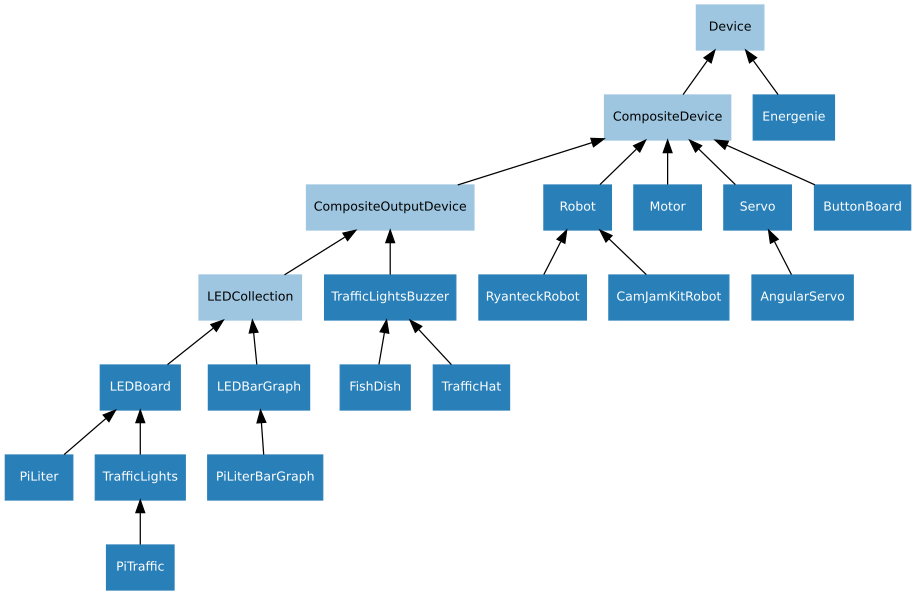
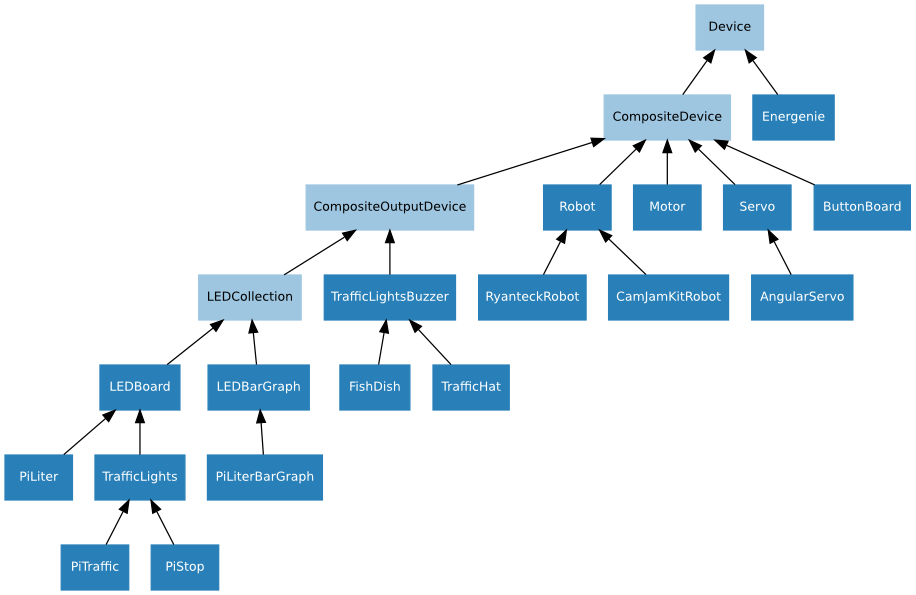
Add support for the Pi-Stop Traffic-light board

diff --git a/gpiozero/boards.py b/gpiozero/boards.py
@@ -753,6 +753,55 @@ class PiTraffic(TrafficLights):
                                         pwm=pwm, initial_value=initial_value)
 
 
+class PiStop(TrafficLights):
+    """
+    Extends :class:`TrafficLights` for the `PiHardware Pi-Stop`_: a vertical
+    traffic lights board.
+
+    The following example turns on the amber LED on a Pi-Stop
+    connected to location ``A+``::
+
+        from gpiozero import PiStop
+
+        traffic = PiStop('A+')
+        traffic.amber.on()
+
+    :param str location:
+        The `location`_ on the GPIO header to which the Pi-Stop is connected.
+        Must be one of: ``A``, ``A+``, ``B``, ``B+``, ``C``, ``D``.
+
+    :param bool pwm:
+        If ``True``, construct :class:`PWMLED` instances to represent each
+        LED. If ``False`` (the default), construct regular :class:`LED`
+        instances.
+
+    :param bool initial_value:
+        If ``False`` (the default), all LEDs will be off initially. If
+        ``None``, each device will be left in whatever state the pin is found
+        in when configured for output (warning: this can be on). If ``True``,
+        the device will be switched on initially.
+
+    .. _PiHardware Pi-Stop: https://pihw.wordpress.com/meltwaters-pi-hardware-kits/pi-stop/
+    .. _location: https://github.com/PiHw/Pi-Stop/blob/master/markdown_source/markdown/Discover-PiStop.md
+    """
+    LOCATIONS = {
+        'A': (7, 8, 25),
+        'A+': (21, 20, 16),
+        'B': (10, 9, 11),
+        'B+': (13, 19, 26),
+        'C': (18, 15, 14),
+        'D': (2, 3, 4),
+    }
+
+    def __init__(self, location=None, pwm=False, initial_value=False):
+        gpios = self.LOCATIONS.get(location, None)
+        if gpios is None:
+            raise ValueError('location must be one of: %s' %
+                             ', '.join(sorted(self.LOCATIONS.keys())))
+        super(PiStop, self).__init__(*gpios,
+                                        pwm=pwm, initial_value=initial_value)
+
+
 class SnowPi(LEDBoard):
     """
     Extends :class:`LEDBoard` for the `Ryanteck SnowPi`_ board.

diff --git a/tests/test_boards.py b/tests/test_boards.py
@@ -580,6 +580,30 @@ def test_pi_traffic():
     with PiTraffic() as board:
         assert [device.pin for device in board] == pins
 
+def test_pi_stop():
+    with pytest.raises(ValueError):
+        PiStop()
+    with pytest.raises(ValueError):
+        PiStop('E')
+    pins_a = [MockPin(n) for n in (7, 8, 25)]
+    with PiStop('A') as board:
+        assert [device.pin for device in board] == pins_a
+    pins_aplus = [MockPin(n) for n in (21, 20, 16)]
+    with PiStop('A+') as board:
+        assert [device.pin for device in board] == pins_aplus
+    pins_b = [MockPin(n) for n in (10, 9, 11)]
+    with PiStop('B') as board:
+        assert [device.pin for device in board] == pins_b
+    pins_bplus = [MockPin(n) for n in (13, 19, 26)]
+    with PiStop('B+') as board:
+        assert [device.pin for device in board] == pins_bplus
+    pins_c = [MockPin(n) for n in (18, 15, 14)]
+    with PiStop('C') as board:
+        assert [device.pin for device in board] == pins_c
+    pins_d = [MockPin(n) for n in (2, 3, 4)]
+    with PiStop('D') as board:
+        assert [device.pin for device in board] == pins_d
+
 def test_snow_pi():
     pins = [MockPin(n) for n in (23, 24, 25, 17, 18, 22, 7, 8, 9)]
     with SnowPi() as board:

diff --git a/gpiozero/__init__.py b/gpiozero/__init__.py
@@ -116,6 +116,7 @@ from .boards import (
     PiLiterBarGraph,
     TrafficLights,
     PiTraffic,
+    PiStop,
     SnowPi,
     TrafficLightsBuzzer,
     FishDish,

diff --git a/docs/api_boards.rst b/docs/api_boards.rst
@@ -71,6 +71,13 @@ PI-TRAFFIC
     :inherited-members:
     :members:
 
+Pi-Stop
+=======
+
+.. autoclass:: PiStop
+    :inherited-members:
+    :members:
+
 TrafficLightsBuzzer
 ===================
 
